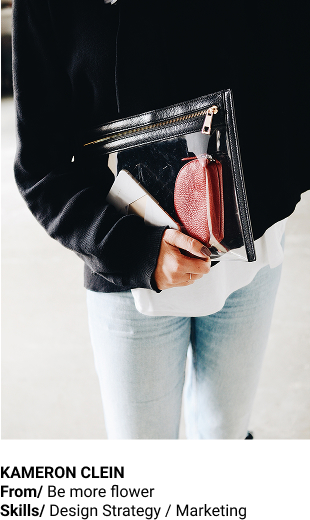
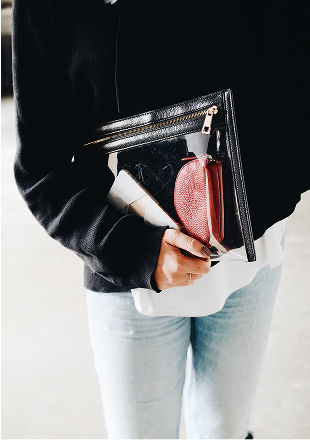
tablet pics added

diff --git a/index.html b/index.html
@@ -76,7 +76,11 @@
                             Marketing</span>
                     </article>
                     <div class="designer-tile-pic-container">
-                        <img src="img/jess-wonder-pic.jpg" alt="jess-wonder" class="designer-tile-pic">
+                        <picture>
+                            <source srcset="img/tablet/jess-wonder-pic-tablet.jpg" media="(max-width: 768px)">
+                            <img src="img/jess-wonder-pic.jpg" alt="jess-wonder" class="designer-tile-pic">
+                        </picture>
+                        
                     </div>
                 </section>
                 <section class="designer-tile small-pic-tile">
@@ -88,7 +92,10 @@
                             Marketing</span>
                     </article>
                     <div class="designer-tile-pic-container">
-                        <img src="img/kameron-clein-pic.jpg" alt="kameron-clein" class="designer-tile-pic">
+                        <picture>
+                            <source srcset="img/tablet/kameron-clein-pic-tablet.jpg" media="(max-width: 768px)">
+                            <img src="img/kameron-clein-pic.jpg" alt="kameron-clein" class="designer-tile-pic">
+                        </picture>
                     </div>
                 </section>
                 <section class="designer-tile small-pic-tile">
@@ -100,7 +107,10 @@
                             Marketing</span>
                     </article>
                     <div class="designer-tile-pic-container">
-                        <img src="img/louisse-red-pic.jpg" alt="louisse-red" class="designer-tile-pic">
+                        <picture>
+                            <source srcset="img\tablet\louisse-red-pic-tablet.jpg" media="(max-width: 768px)">
+                            <img src="img/louisse-red-pic.jpg" alt="louisse-red" class="designer-tile-pic">
+                        </picture>
                     </div>
                 </section>
                 <section class="designer-tile small-pic-tile">
